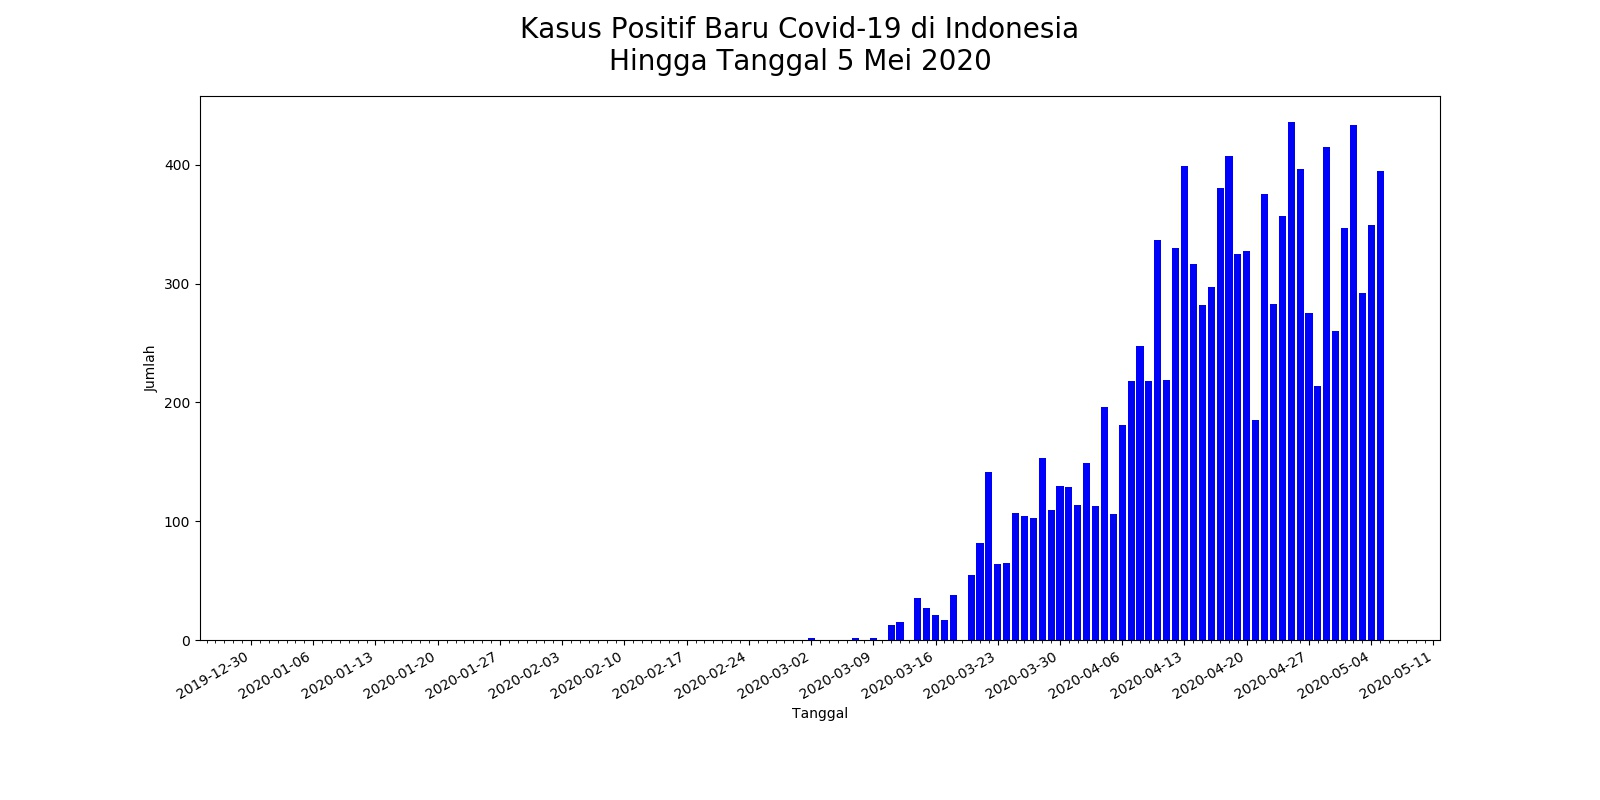
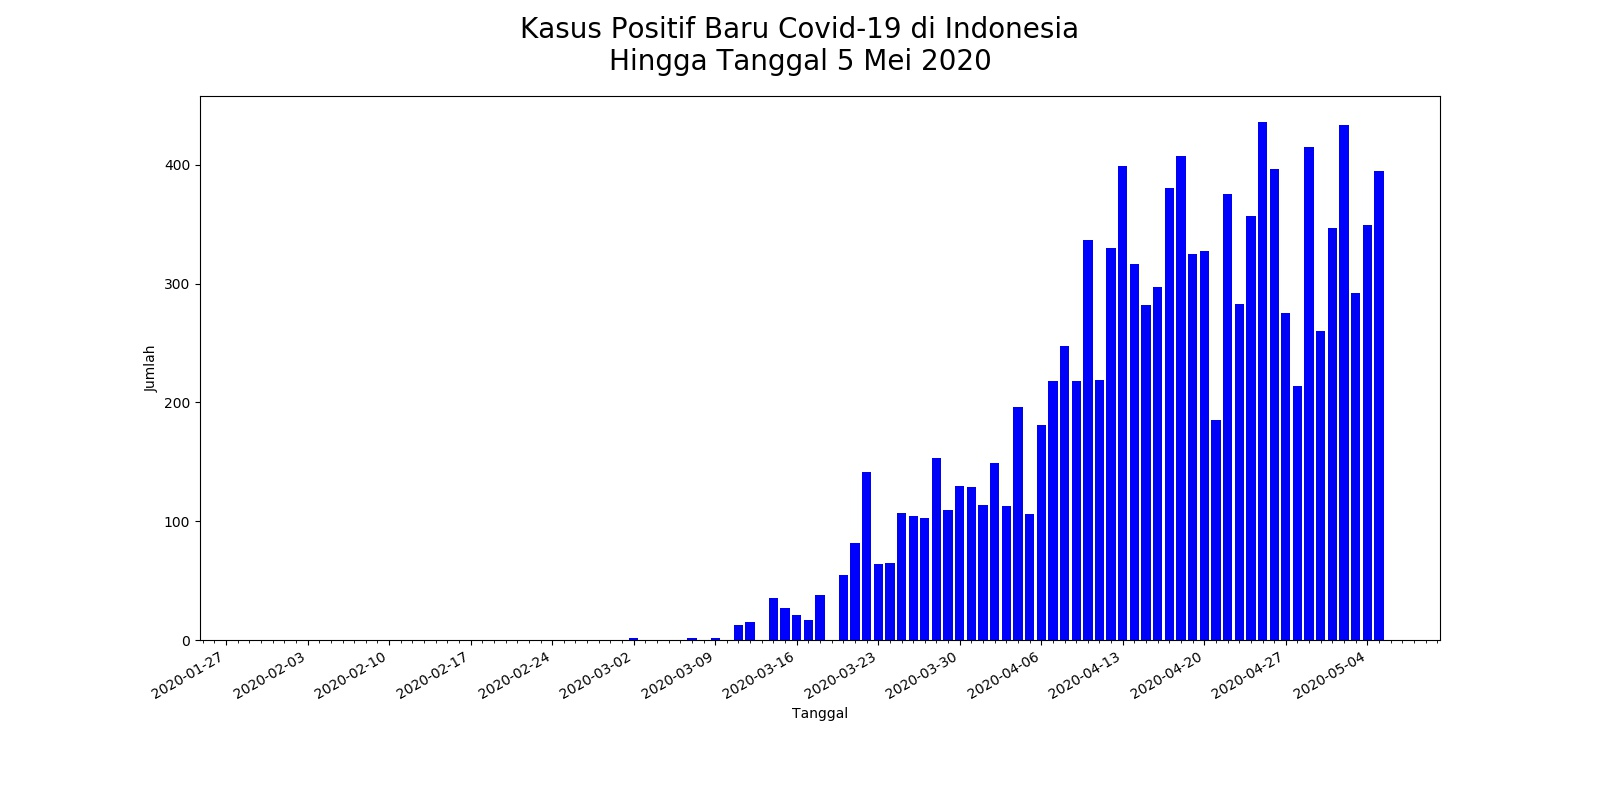
Add new case regression

Changed region(s): [[0.0938, 0.1562, 0.9062, 0.875]]

diff --git a/modeler.py b/modeler.py
@@ -1,4 +1,6 @@
 import matplotlib.dates as mdates
+import matplotlib.lines as mlines
+import matplotlib.patches as mpatches
 import matplotlib.pyplot as plt
 import numpy as np
 import pandas as pd
@@ -12,54 +14,6 @@ class Modeler:
     def __init__(self, df_indo):
         self.df_indo = df_indo
         self.sigmoid_coeff = None
-
-    def plot_observed_data(self, fig, ax):
-        # Plot line data
-        ax.bar(self.df_indo['date'].values, self.df_indo['total_cases'],
-               color='blue')
-        # Setup axes format
-        ax.set(
-            xlabel='Tanggal',
-            ylabel='Jumlah'
-        )
-        ax.xaxis.set_major_locator(mdates.WeekdayLocator(byweekday=mdates.MO))
-        ax.xaxis.set_minor_locator(mdates.DayLocator())
-        # Setup figure
-        fig.autofmt_xdate()
-        fig.suptitle('Total Kasus Positif dan Meninggal Covid-19 di Indonesia'
-                     '\nHingga Tanggal 5 Mei 2020', fontsize=20)
-        # Return
-        return fig, ax
-
-    def plot_expected_data(self, fig, ax, pred_d):
-        x = self.df_indo['date'].transform(
-            lambda d: datetime.toordinal(d)
-        ).values
-        # Next n day, to be predicted
-        x_pred = np.append(
-            x,
-            [i for i in range(x[-1] + 1, x[-1] + pred_d + 1)]
-        )
-        # Predict using the sigmoid curve
-        plt.plot(x_pred, self.sigmoid(x_pred, *self.sigmoid_coeff),
-                 color='black')
-        ax.set_ylim(bottom=0)
-        # Return
-        return fig, ax
-
-    def plot_observed_and_expected_data(self, pred_d, save):
-        # Create figure
-        fig, ax = plt.subplots(figsize=(16, 8))
-        # Plot data
-        fig, ax = self.plot_observed_data(fig, ax)
-        if self.sigmoid_coeff is None:
-            self.get_regression_model()
-        fig, ax = self.plot_expected_data(fig, ax, pred_d)
-        # Show
-        if (save):
-            fig.savefig('plt/plot_regression_total_case.jpg')
-        else:
-            plt.show()
 
     def sigmoid(self, x, L, x0, k, c):
         return (L / (1 + np.exp(-k * (x - x0))) + c)
@@ -75,6 +29,118 @@ class Modeler:
         self.sigmoid_coeff, _ = curve_fit(self.sigmoid, x, y, p0)
         return self.sigmoid_coeff
 
+    def plot_observed_total_case(self, fig, ax):
+        # Plot line data
+        ax.bar(self.df_indo['date'].values, self.df_indo['total_cases'],
+               color='blue')
+        # Return
+        return fig, ax
+
+    def plot_expected_total_case(self, fig, ax, pred_d):
+        x = self.df_indo['date'].transform(
+            lambda d: datetime.toordinal(d)
+        ).values
+        # Next n day, to be predicted
+        x_pred = np.append(
+            x,
+            [i for i in range(x[-1] + 1, x[-1] + pred_d + 1)]
+        )
+        # Predict using the sigmoid curve
+        if self.sigmoid_coeff is None:
+            self.get_regression_model()
+        plt.plot(x_pred, self.sigmoid(x_pred, *self.sigmoid_coeff),
+                 color='red', linewidth=4)
+        ax.set_ylim(bottom=0)
+        # Return
+        return fig, ax
+
+    def plot_observed_and_expected_total_case(self, pred_d, save):
+        # Create figure
+        fig, ax = plt.subplots(figsize=(16, 8))
+        # Plot data
+        fig, ax = self.plot_observed_total_case(fig, ax)
+        fig, ax = self.plot_expected_total_case(fig, ax, pred_d)
+        # Setup axes format
+        ax.set(
+            xlabel='Tanggal',
+            ylabel='Jumlah'
+        )
+        ax.xaxis.set_major_locator(mdates.WeekdayLocator(byweekday=mdates.MO))
+        ax.xaxis.set_minor_locator(mdates.DayLocator())
+        # Setup figure
+        fig.autofmt_xdate()
+        fig.suptitle('Prediksi Total Kasus Positif Covid-19 di Indonesia\n'
+                     f'{pred_d} Hari Sejak Tanggal 5 Mei 2020', fontsize=20)
+        # Setup legend
+        blue_patch = mpatches.Patch(color='blue', label='Data aktual')
+        red_line = mlines.Line2D([], [], color='red', label='Prediksi')
+        plt.legend(handles=[blue_patch, red_line])
+        # Show
+        if (save):
+            fig.savefig('plt/plot_regression_total_case.jpg')
+        else:
+            plt.show()
+
+    def plot_observed_new_case(self, fig, ax):
+        # Plot line data
+        ax.bar(self.df_indo['date'].values, self.df_indo['new_cases'],
+               color='blue')
+        # Return
+        return fig, ax
+
+    def plot_expected_new_case(self, fig, ax, pred_d):
+        x = self.df_indo['date'].transform(
+            lambda d: datetime.toordinal(d)
+        ).values
+        # Predict using the sigmoid curve
+        if self.sigmoid_coeff is None:
+            self.get_regression_model()
+        # Next n day, to be predicted
+        x_pred = np.append(
+            x,
+            [i for i in range(x[-1] + 1, x[-1] + pred_d + 1)]
+        )
+        # y value predicted
+        total_case = self.sigmoid(x_pred, *self.sigmoid_coeff)
+        new_case = [0]
+        for i in range(1, len(total_case)):
+            if total_case[i] < 0 or total_case[i - 1] < 0:
+                new_case.append(0)
+            else:
+                new_case.append(total_case[i] - total_case[i - 1])
+        new_case = np.array(new_case)
+        plt.plot(x_pred, new_case, color='red', linewidth=4)
+        ax.set_ylim(bottom=0)
+        # Return
+        return fig, ax
+
+    def plot_observed_and_expected_new_case(self, pred_d, save):
+        # Create figure
+        fig, ax = plt.subplots(figsize=(16, 8))
+        # Plot data
+        fig, ax = self.plot_observed_new_case(fig, ax)
+        fig, ax = self.plot_expected_new_case(fig, ax, pred_d)
+        # Setup axes format
+        ax.set(
+            xlabel='Tanggal',
+            ylabel='Jumlah'
+        )
+        ax.xaxis.set_major_locator(mdates.WeekdayLocator(byweekday=mdates.MO))
+        ax.xaxis.set_minor_locator(mdates.DayLocator())
+        # Setup figure
+        fig.autofmt_xdate()
+        fig.suptitle('Prediksi Kasus Positif Baru Covid-19 di Indonesia\n'
+                     f'{pred_d} Hari Sejak Tanggal 5 Mei 2020', fontsize=20)
+        # Setup legend
+        blue_patch = mpatches.Patch(color='blue', label='Data aktual')
+        red_line = mlines.Line2D([], [], color='red', label='Prediksi')
+        plt.legend(handles=[blue_patch, red_line])
+        # Show
+        if (save):
+            fig.savefig('plt/plot_regression_new_case.jpg')
+        else:
+            plt.show()
+
 
 if __name__ == '__main__':
     print('\n' * 4)
@@ -86,7 +152,11 @@ if __name__ == '__main__':
                       'new_cases', 'total_deaths', 'new_deaths']
     df_indo = df[df['location'] == 'Indonesia'][columns_filter]
     df_indo['date'] = pd.to_datetime(df_indo['date'], format='%Y-%m-%d')
+    df_indo = df_indo.iloc[65:]
     # print(df_indo)
 
     m = Modeler(df_indo)
-    m.plot_observed_and_expected_data(90, False)
+    save = True
+    # save = False
+    m.plot_observed_and_expected_total_case(90, save)
+    m.plot_observed_and_expected_new_case(90, save)

diff --git a/plotter.py b/plotter.py
@@ -1,4 +1,5 @@
 import matplotlib.dates as mdates
+import matplotlib.lines as mlines
 import matplotlib.patches as mpatches
 import matplotlib.pyplot as plt
 
@@ -7,8 +8,8 @@ def plot_data_1(df_indo, save):
     # Create figure
     fig, ax = plt.subplots(figsize=(16, 8))
     # Plot line data
-    ax.plot(df_indo['date'], df_indo['total_cases'], color='blue')
-    ax.plot(df_indo['date'], df_indo['total_deaths'], color='red')
+    ax.plot(df_indo['date'], df_indo['total_cases'], color='blue', linewidth=4)
+    ax.plot(df_indo['date'], df_indo['total_deaths'], color='red', linewidth=4)
     # Setup axes format
     ax.set(
         xlabel='Tanggal',
@@ -23,9 +24,9 @@ def plot_data_1(df_indo, save):
     fig.suptitle('Total Kasus Positif dan Meninggal Covid-19 di Indonesia\n'
                  'Hingga Tanggal 5 Mei 2020', fontsize=20)
     # Setup legend
-    blue_patch = mpatches.Patch(color='blue', label='Positif')
-    red_patch = mpatches.Patch(color='red', label='Meninggal')
-    plt.legend(handles=[blue_patch, red_patch])
+    blue_line = mlines.Line2D([], [], color='blue', label='Positif')
+    red_line = mlines.Line2D([], [], color='red', label='Meninggal')
+    plt.legend(handles=[blue_line, red_line])
     # Show
     if (save):
         fig.savefig('plt/plot_total_positif_dan_meninggal.jpg')

diff --git a/main.py b/main.py
@@ -1,6 +1,7 @@
 import pandas as pd
 
 from plotter import plot_data_1, plot_data_2
+from modeler import Modeler
 
 
 if __name__ == '__main__':
@@ -19,7 +20,12 @@ if __name__ == '__main__':
     # Plot data
     if plot:
         save = True
-        save = False
-        plot_data_1(df_indo, save)
-        plot_data_2(df_indo, 'new_cases', 'blue', save)
-        plot_data_2(df_indo, 'new_deaths', 'red', save)
+        # save = False
+        # Plot actual data
+        plot_data_1(df_indo.iloc[30:], save)
+        plot_data_2(df_indo.iloc[30:], 'new_cases', 'blue', save)
+        plot_data_2(df_indo.iloc[30:], 'new_deaths', 'red', save)
+        # Plot prediction data
+        m = Modeler(df_indo.iloc[65:])
+        m.plot_observed_and_expected_total_case(90, save)
+        m.plot_observed_and_expected_new_case(90, save)
